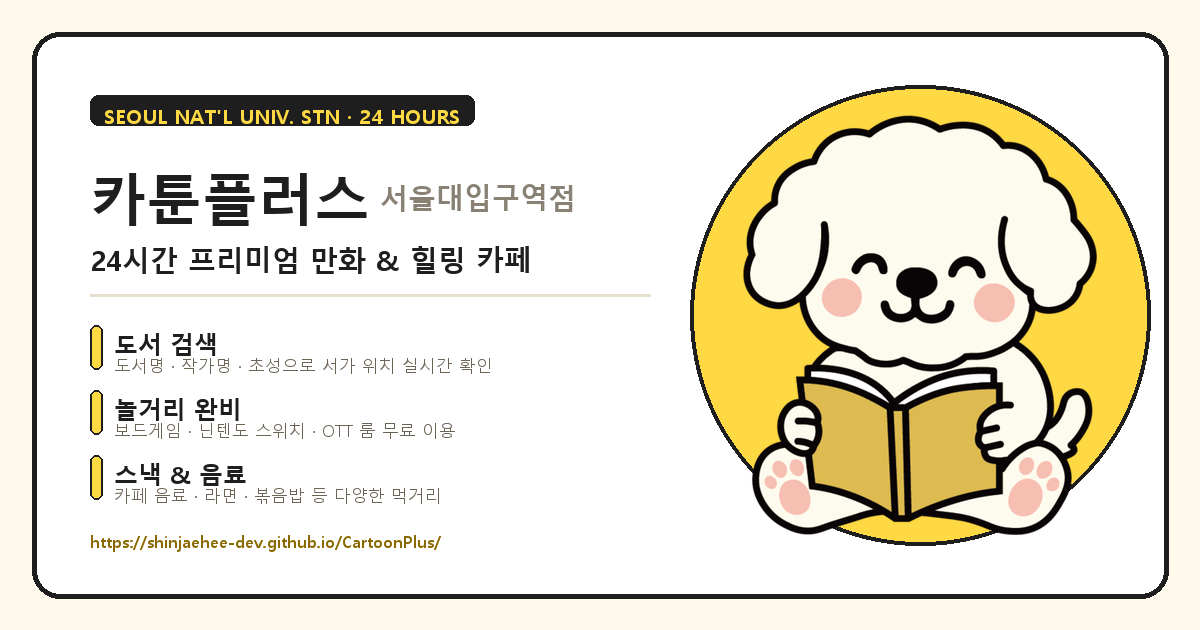
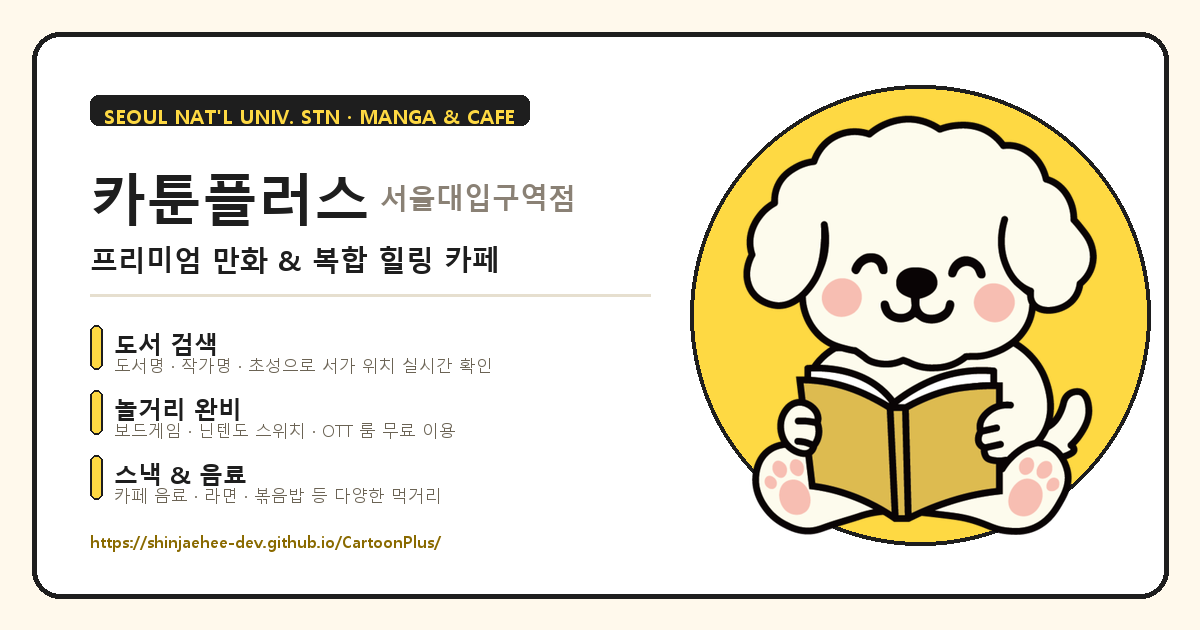
chore: remove 24-hour references from metadata and og preview

Changed region(s): [[0.0617, 0.3921, 0.4625, 0.4524], [0.3083, 0.1508, 0.4625, 0.2111]]

diff --git a/index.html b/index.html
@@ -4,11 +4,11 @@
     <meta charset="UTF-8" />
     <meta name="viewport" content="width=device-width, initial-scale=1.0" />
     <meta name="theme-color" content="#FED943" />
-    <title>카툰플러스 서울대입구역점 | 실시간 도서 검색 &amp; 24시 만화카페</title>
+    <title>카툰플러스 서울대입구역점 | 실시간 도서 검색 &amp; 매장 안내</title>
 
     <!-- SEO Meta Tags -->
-    <meta name="description" content="서울대입구역 24시간 프리미엄 만화카페 카툰플러스. 실시간 도서 재고·서가 위치 검색, 초성 검색, 보드게임·닌텐도 스위치, 요금 및 메뉴 안내." />
-    <meta name="keywords" content="카툰플러스, 카툰플러스 서울대입구역점, 서울대입구 만화카페, 서울대입구역 만화카페, 서울대입구 24시 만화카페, 샤로수길 만화카페, 만화카페 도서검색, 카툰플러스 도서검색" />
+    <meta name="description" content="서울대입구역 프리미엄 만화카페 카툰플러스. 실시간 도서 재고·서가 위치 검색, 초성 검색, 보드게임·닌텐도 스위치, 요금 및 메뉴 안내." />
+    <meta name="keywords" content="카툰플러스, 카툰플러스 서울대입구역점, 서울대입구 만화카페, 서울대입구역 만화카페, 샤로수길 만화카페, 만화카페 도서검색, 카툰플러스 도서검색" />
     <meta name="author" content="카툰플러스 서울대입구역점" />
 
     <!-- Favicon & Icons -->
@@ -23,8 +23,8 @@
     <meta property="og:type" content="website" />
     <meta property="og:locale" content="ko_KR" />
     <meta property="og:site_name" content="카툰플러스 서울대입구역점" />
-    <meta property="og:title" content="카툰플러스 서울대입구역점 | 실시간 도서 검색 &amp; 24시 만화카페" />
-    <meta property="og:description" content="서울대입구역 24시간 프리미엄 만화카페 카툰플러스. 실시간 도서 재고·서가 위치 검색, 초성 검색, 보드게임 &amp; 닌텐도 스위치 완비." />
+    <meta property="og:title" content="카툰플러스 서울대입구역점 | 실시간 도서 검색 &amp; 매장 안내" />
+    <meta property="og:description" content="서울대입구역 프리미엄 만화카페 카툰플러스. 실시간 도서 재고·서가 위치 검색, 초성 검색, 보드게임 &amp; 닌텐도 스위치 완비." />
     <meta property="og:image" content="%BASE_URL%og-image.png" />
     <meta property="og:image:width" content="1200" />
     <meta property="og:image:height" content="630" />
@@ -32,8 +32,8 @@
 
     <!-- Twitter Card -->
     <meta name="twitter:card" content="summary_large_image" />
-    <meta name="twitter:title" content="카툰플러스 서울대입구역점 | 실시간 도서 검색 &amp; 24시 만화카페" />
-    <meta name="twitter:description" content="서울대입구역 24시간 프리미엄 만화카페 카툰플러스. 실시간 도서 재고·서가 위치 검색, 초성 검색, 보드게임 &amp; 닌텐도 스위치 완비." />
+    <meta name="twitter:title" content="카툰플러스 서울대입구역점 | 실시간 도서 검색 &amp; 매장 안내" />
+    <meta name="twitter:description" content="서울대입구역 프리미엄 만화카페 카툰플러스. 실시간 도서 재고·서가 위치 검색, 초성 검색, 보드게임 &amp; 닌텐도 스위치 완비." />
     <meta name="twitter:image" content="%BASE_URL%og-image.png" />
   </head>
   <body>
